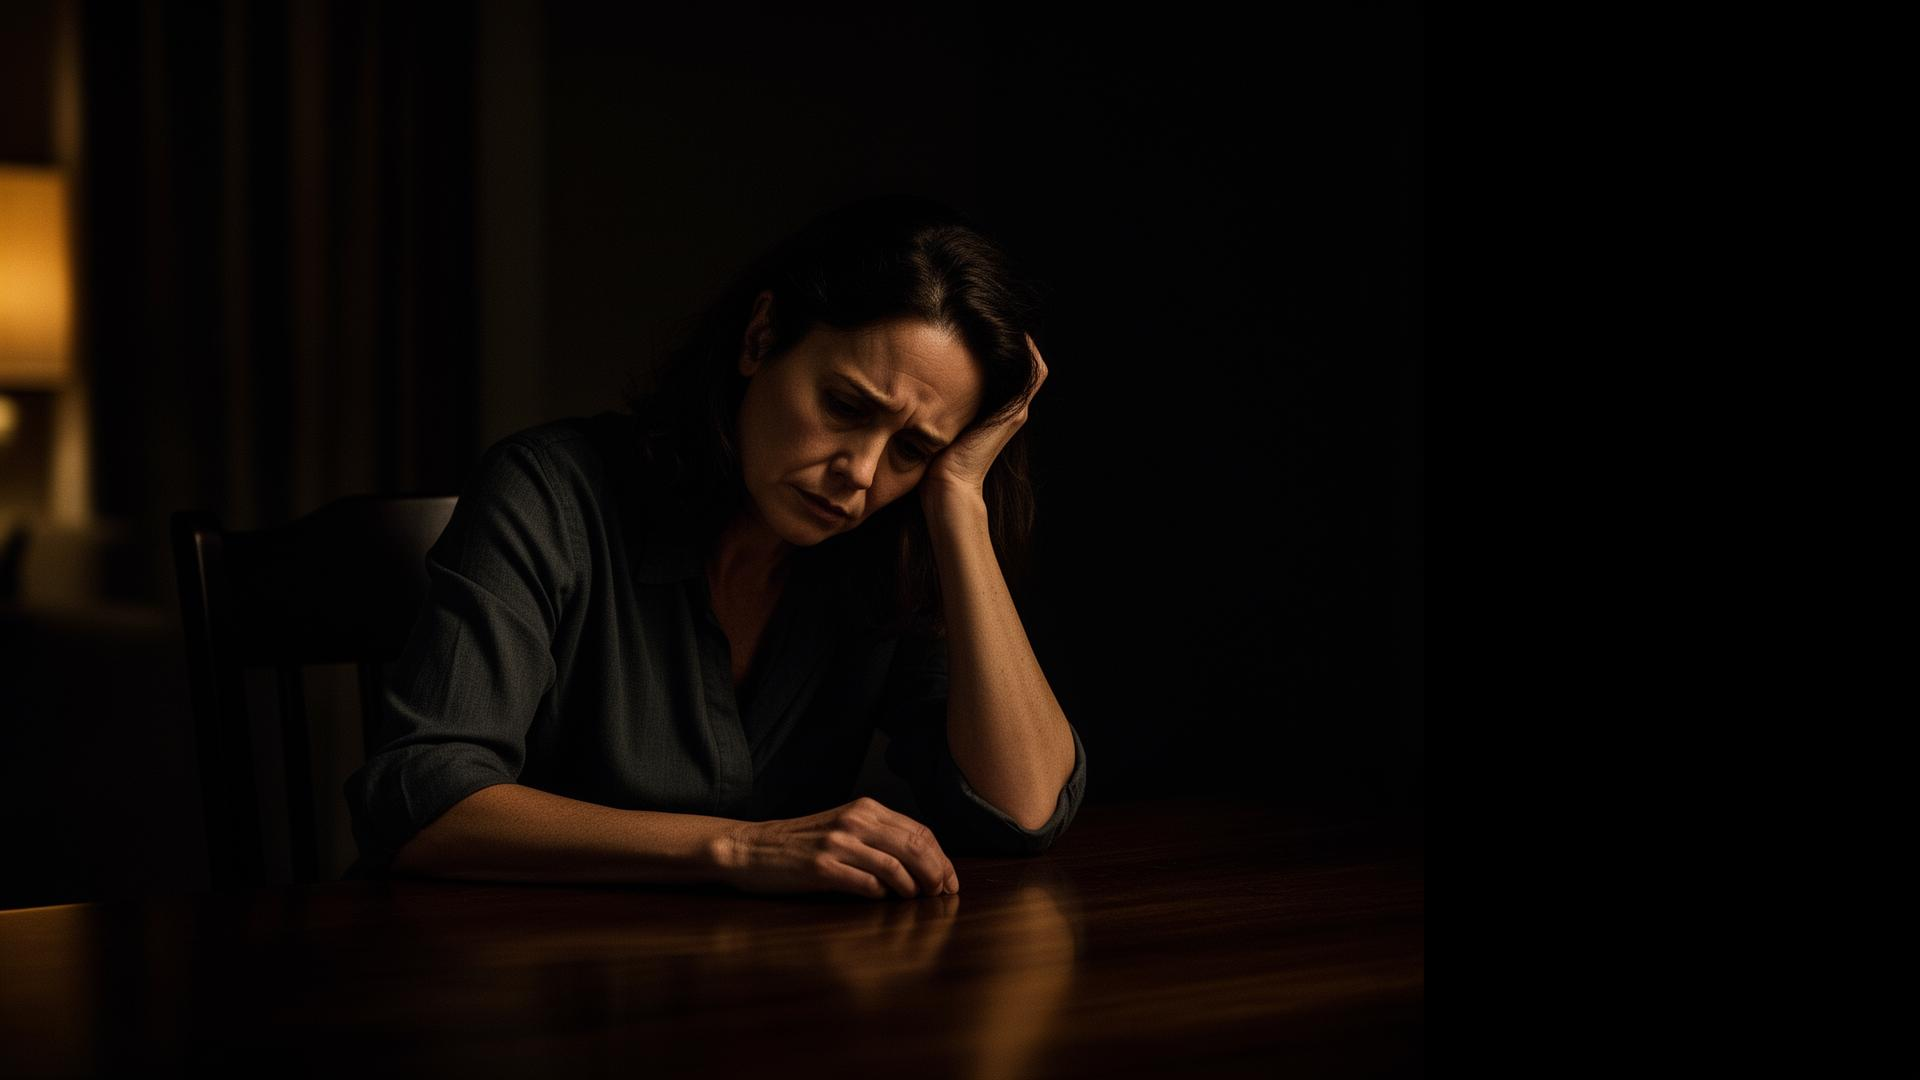
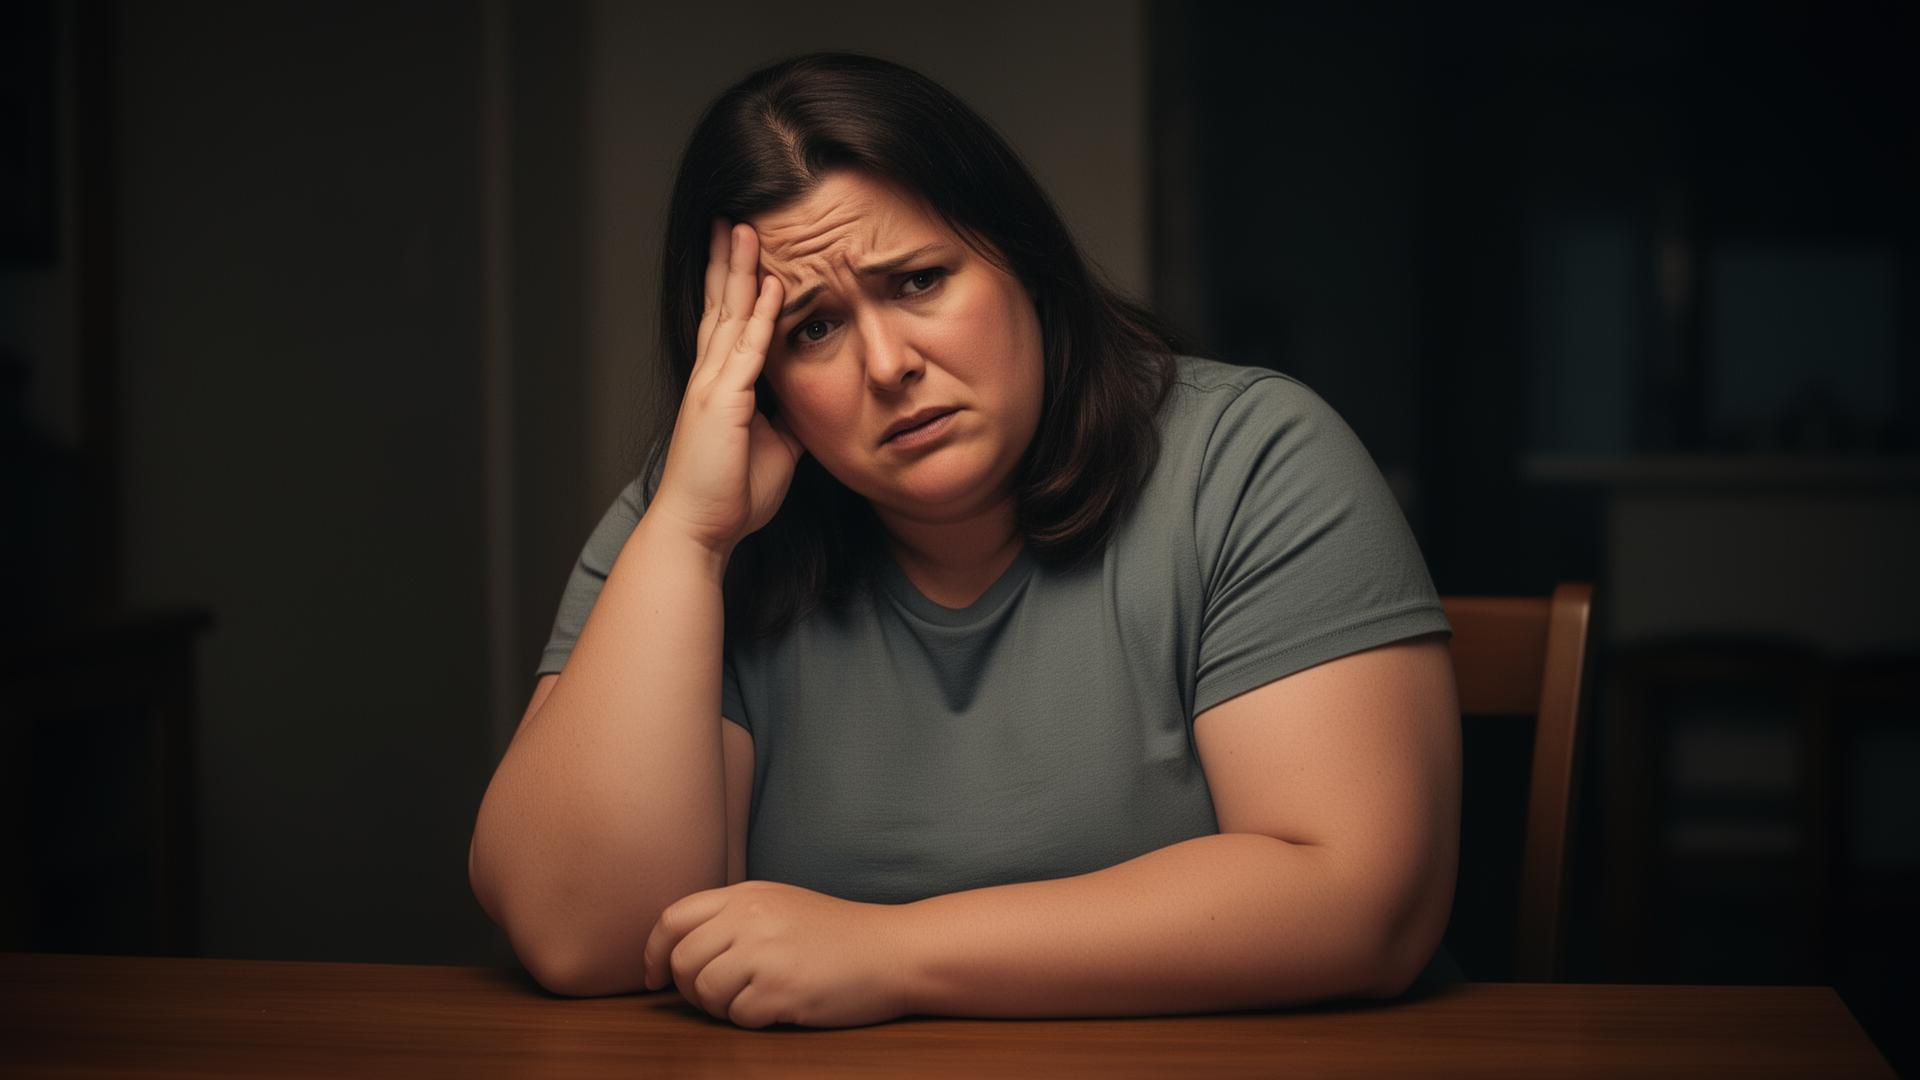
Changes

diff --git a/.lovable/plan.md b/.lovable/plan.md
@@ -1,35 +1,56 @@
-## What's broken
+# Problem Hook — Cinematic Composition Fix (v2)
 
-Production `lsdiet.com` returns an HTML document with an empty `<head>` and no `<script type="module">` for the Vite bundle. Without that script the React app can never mount, so every page renders as a blank white screen. I confirmed this on both `/` and `/blog` — both serve the same stub. This was shipped by the most recent publish; the SPA shell itself is broken at the file level.
+This is a cinematic emotional composition problem, not a UI component problem. The live render proves the original critique: the woman isn't visible (framed hard-left with a black void on the right), the heavy overlay kills her, and the boxes float like SaaS filter chips. We fix composition, image, and hierarchy — no new functionality, no perf regressions.
 
-The likely culprit is the `scripts/prerender.mjs` Puppeteer pass writing a stripped DOM over `dist/index.html` (and every prerendered route's `index.html`). The recent GA snippet + `RouterEffects` restructuring + Helmet flow are the most recent things touching head/HTML, so one of them is corrupting `page.content()` during prerender.
+## What stays the same
+- The 5 pain points, their colors, icons, and blog-post links
+- Headline copy "How to **lose weight** when…"
+- Perf rules: responsive AVIF/WebP, one eager LCP image, lightweight `box-shadow` glow only, no parallax/video/blur/animation libraries (chevron bounce only)
+- Single `<h1>` on the headline (SEO)
 
-## Step 1 — Restore the site immediately (you do this)
+## Core principle
+**The 5 pain-point labels ARE the hook message.** No paragraphs to read — visitors self-identify instantly. The woman is the emotional anchor; the labels are pressure surrounding her.
 
-Roll back to the previous working version from chat history, then re-publish. This brings the live site back online while I diagnose the prerender properly.
+## 1. New hero image — relatable frustration, NOT despair
+Generate a replacement (saved over `src/assets/problem-hook-bg.jpg`, keeping the existing `?w=…&format=avif;webp&as=picture` import + perf pipeline). Direction:
+- **Emotion: concerned, mentally fatigued, frustrated-with-repeated-failure.** A "I'm tired of struggling with this" energy — NOT defeat, crying, despair, rock-bottom, or severe-depression energy.
+- **A normal, modern, relatable person** — slightly overweight, everyday realism. **Not a fashion-campaign / luxury-skincare-ad model, and no glamorous cinematic beauty lighting.**
+- Sitting at a table; hand-on-forehead or thinking pose; subtle stress expression.
+- **Tighter, more centered crop** — face + upper torso dominant, brighter on face/shoulders, darkness preserved only at the edges (natural vignette), minimal dead space.
+- **Composition connects her to the pain points:** her posture, gaze direction, and body angle should subtly feel surrounded/overwhelmed by the labels around her, so the cards read as her thoughts rather than pasted-on chrome.
 
-<presentation-actions>
-  <presentation-open-history>View History</presentation-open-history>
-</presentation-actions>
+A lighter, edge-weighted gradient overlay (vignette + bottom scrim) replaces today's heavy full-frame darkening so her expression is the first thing the eye lands on.
 
-Pick the most recent version from **before** the GA install / SEO sitemap work, click **Restore**, then **Publish**. After that, `lsdiet.com` should load normally again.
+## 2. Bigger pain cards, dialed-back glow
+- Larger padding, larger icon, bumped/bolder font so cards compete with the headline.
+- Thicker border + layered `box-shadow` glow — but **~20% less intense than the mockup's upper limit.** Glow supports the scene; it must read as premium emotional realism, not gaming/crypto/cyberpunk UI. Still pure layered box-shadow (no blur filter).
+- Slightly stronger hover lift/glow.
 
-## Step 2 — Fix the prerender (I do this next turn)
+## 3. Cinematic asymmetric composition (desktop)
+Replace evenly-spread positions with deliberate, slightly-uneven inward pressure around the woman:
 
-Once you've rolled back, I'll diagnose and patch the prerender pipeline so future publishes don't ship a broken shell. Concretely I'll:
+```text
+[ top-left ]                         [ top-right ]
+                  (WOMAN)
+[ lower-left ]                       [ mid-right ]
+              [ bottom-centre ]  <- overlaps table edge
+```
 
-1. **Add a sanity assertion in `scripts/prerender.mjs`** — after capturing `page.content()`, fail the route (and the build) if the HTML is missing either `<head>` content or a `<script type="module"` tag. This guarantees we can never publish a blank shell again, no matter what causes the underlying corruption.
-2. **Reproduce locally via a logged Puppeteer run** to identify which of these is stripping the head during prerender:
-   - GA inline `<script>` IIFE in `index.html` (Puppeteer's headless flags can interact oddly with inline scripts that append to `document.head`).
-   - `react-helmet-async` interaction with the prerender's `waitForFunction` timing — Helmet may have wiped+rewritten head right at snapshot time.
-   - The `RouterEffects` / `useAnalyticsPageviews` hook firing a `setTimeout` that mutates the document mid-snapshot.
-3. **Patch the root cause** (most likely guarding the GA snippet so it strictly no-ops under Puppeteer, e.g. checking `navigator.webdriver` *and* a hostname allowlist before touching `document.head`).
-4. **Verify** by running `vite build` + the prerender script and checking that `dist/index.html` still contains both the head meta tags and the bundled `<script type="module" src="/assets/...">` tag, then re-publish.
+Cards pulled closer to center, spacing intentionally not mathematically even.
 
-## Why roll back first
+## 4. Mobile — image dominates, cards overlay
+Replace the small-thumbnail + button-grid layout:
+- Headline at top
+- **Large, near-full-width image** as the emotional anchor (tall crop, far bigger than today's 24svh strip)
+- Pain cards **overlaying the lower portion of the image** (scrim behind for legibility) in a tight, slightly-crowded 2-2-1 grouping — bigger than now, readable, not full-width stacked cards
+- Subtle chevron at the very bottom to invite scroll
 
-I can't run `vite build` from plan mode to reproduce, and even in build mode the fix requires a real prerender run to validate. Restoring from history is the fastest path to a working live site — the diagnostic work then happens against a safe baseline instead of with your domain down.
+Everything fits within ~100svh so the full "that's me" message lands with no scrolling on phone and desktop.
 
-<presentation-actions>
-<presentation-link url="https://docs.lovable.dev/tips-tricks/troubleshooting">Troubleshooting docs</presentation-link>
-</presentation-actions>
+## 5. Hierarchy
+Headline → her expression → pain cards → (small low chevron). Scroll cue stays subtle.
+
+## Technical notes
+- Only `src/components/ProblemHookSection.tsx` is edited, plus regenerating `src/assets/problem-hook-bg.jpg`.
+- Glow = layered inline `box-shadow` (as today), tuned down ~20%; no Tailwind config change.
+- After building, QA both viewports (desktop + 595px mobile) via screenshot to confirm the photo reads, glow is balanced, and nothing overflows one screen.
